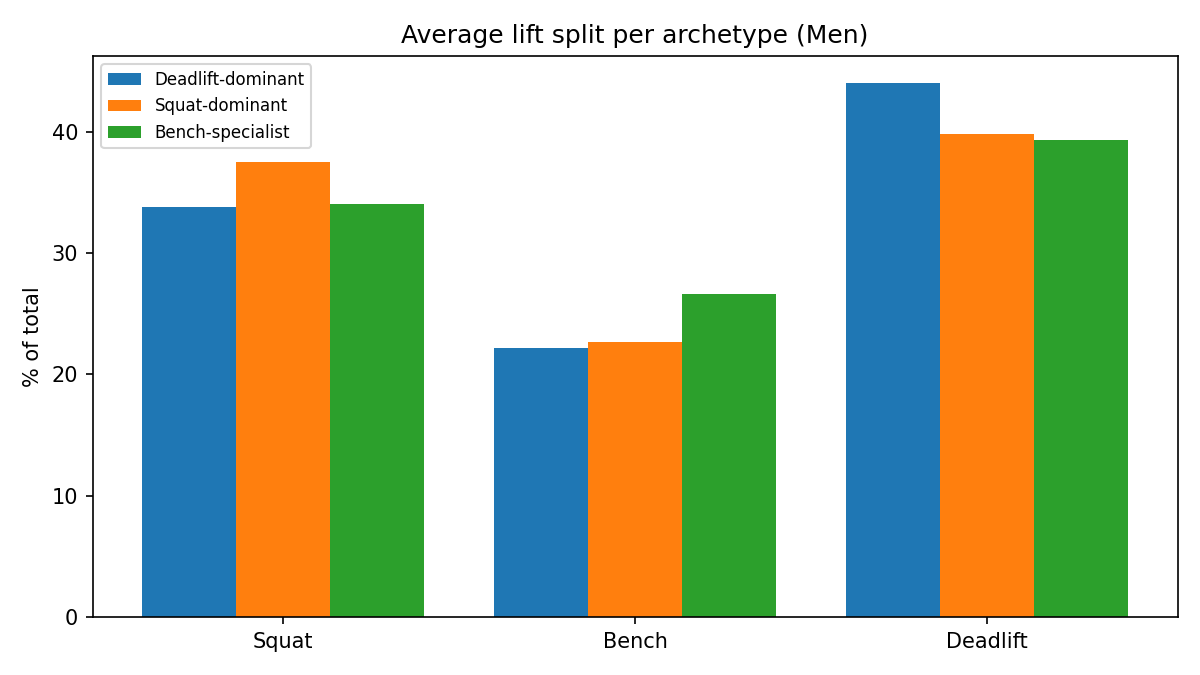
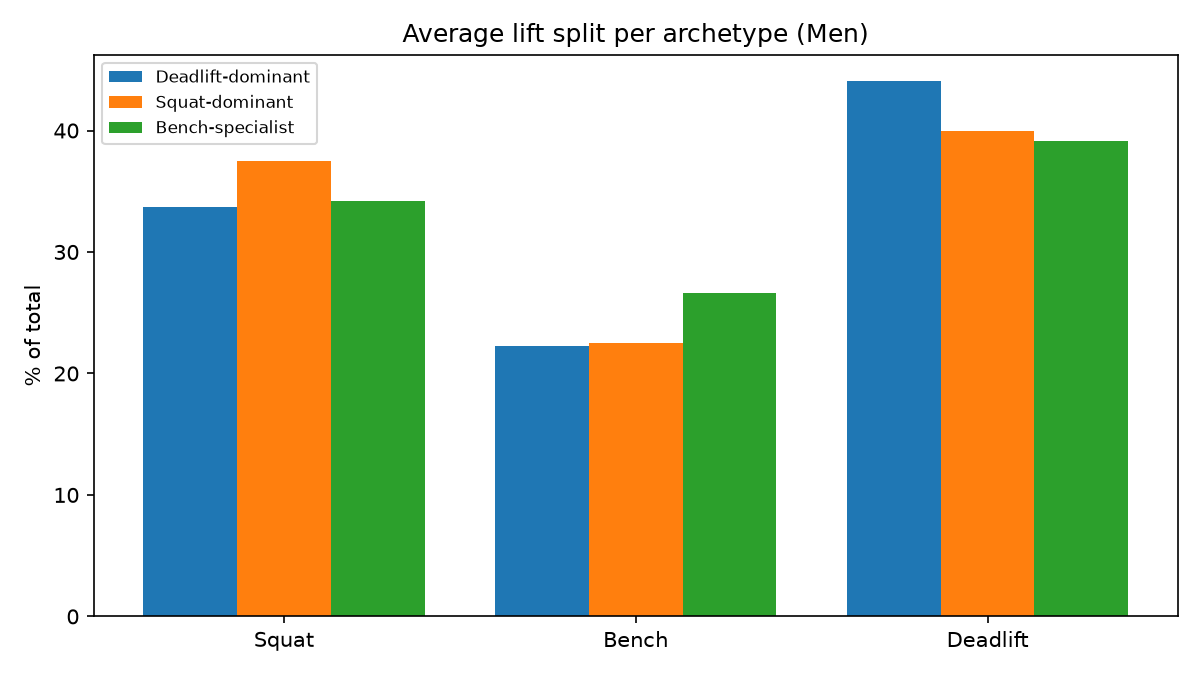
chore: retrain models on refactored dataset

diff --git a/models/cluster_interpretation.md b/models/cluster_interpretation.md
@@ -1,19 +1,19 @@
-### Men (k = 3, 240,335 lifters)
+### Men (k = 3, 239,698 lifters)
 
 | Cluster | Label | Squat % | Bench % | Deadlift % | Lifters | % tested | Median BW (kg) |
 |---|---|---|---|---|---|---|---|
-| 0 | Deadlift-dominant | 33.8 | 22.1 | 44.0 | 79,953 | 80.0 | 81.5 |
-| 1 | Squat-dominant | 37.5 | 22.6 | 39.9 | 95,759 | 80.0 | 90.0 |
-| 2 | Bench-specialist | 34.0 | 26.7 | 39.3 | 64,623 | 74.9 | 90.0 |
+| 0 | Deadlift-dominant | 33.7 | 22.2 | 44.1 | 79,121 | 79.8 | 81.5 |
+| 1 | Squat-dominant | 37.5 | 22.5 | 40.0 | 95,543 | 80.1 | 89.9 |
+| 2 | Bench-specialist | 34.2 | 26.6 | 39.2 | 65,034 | 74.8 | 90.2 |
 
 Average me: squat 35.3%, bench 23.6%, deadlift 41.1%.
 
-### Women (k = 3, 110,593 lifters)
+### Women (k = 3, 110,248 lifters)
 
 | Cluster | Label | Squat % | Bench % | Deadlift % | Lifters | % tested | Median BW (kg) |
 |---|---|---|---|---|---|---|---|
-| 0 | Bench-specialist | 35.9 | 22.7 | 41.4 | 33,187 | 80.7 | 67.5 |
-| 1 | Squat-dominant | 38.4 | 18.6 | 43.0 | 44,222 | 80.9 | 68.4 |
-| 2 | Deadlift-dominant | 33.1 | 19.6 | 47.3 | 33,184 | 79.3 | 64.6 |
+| 0 | Squat-dominant | 38.4 | 18.6 | 43.0 | 44,070 | 80.8 | 68.4 |
+| 1 | Deadlift-dominant | 33.1 | 19.5 | 47.3 | 32,936 | 79.3 | 64.6 |
+| 2 | Bench-specialist | 35.9 | 22.7 | 41.4 | 33,242 | 80.6 | 67.4 |
 
 Average wome: squat 36.1%, bench 20.1%, deadlift 43.8%.
